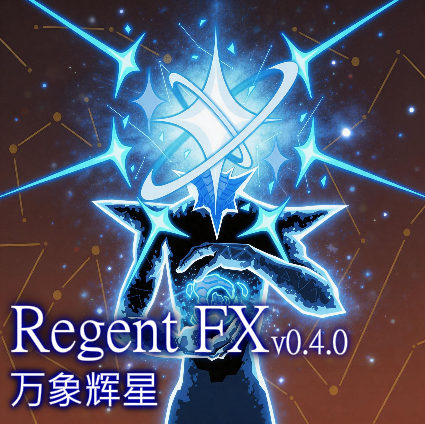
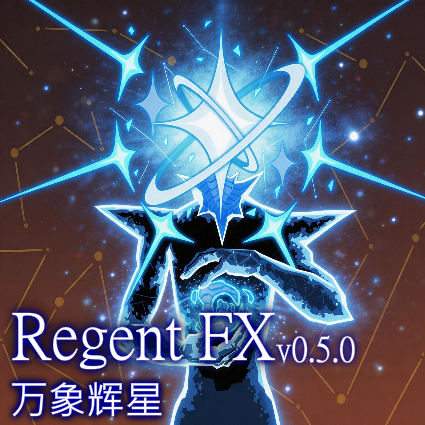
docs: changelog_en and img

diff --git a/CHANGELOG_EN.md b/CHANGELOG_EN.md
@@ -1,0 +1,29 @@
+**Regent FX Omnistar**
+
+**Warning: If you find your save is lost after installing the mod, this is normal and it is due to the game itself. You can subscribe to other save repair mods to solve the problem**
+
+- Add star rings and special hit/cast effect according to Regent's card images.
+
+**RitsuLib**
+RitsuLib is the pre runtime library for this mod, but it is not mandatory
+Mainly used to provide a mod setting interface for adjusting parameters
+
+**Changelog**
+
+**0.5.0**
+- Added vfx to cards and abilities:[Shining Strike], [Solar Strike], [Comet], [Supermassive], and [Radiate]
+- Fixed the bug where the [Pillar Of Creation] effect was also triggered when other players generated cards
+  Fixed the bug where remaining stars would remain on the screen when cards like [Lunar Blast] and [Stardust] kill enemies
+- It can now run on the mobile version of wsdx233, but there are still compatibility issues (missing sound effects)
+
+**0.4.0**
+- Added special effects to cards and abilities such as Resonance, Stardust, and Spectrum Shift, and remade the Particle Wall effect
+- Fixed the issue of exposure retention caused by acceleration mod hijacking waiting functions such as Pippi Speed
+- Fixed the issue where teammates' ability effects could be viewed abnormaly
+- Transfer sound effects to FMOD.
+- Support beta 0.108+
+- Add on option to toggle off sounds. (Need to install RitsuLib)
+
+**Acknowledgements**
+
+- Thanks for the encouragement and support from Discord group members such as Nitblade, Gk, Cany0udance, Vex'd, etc
